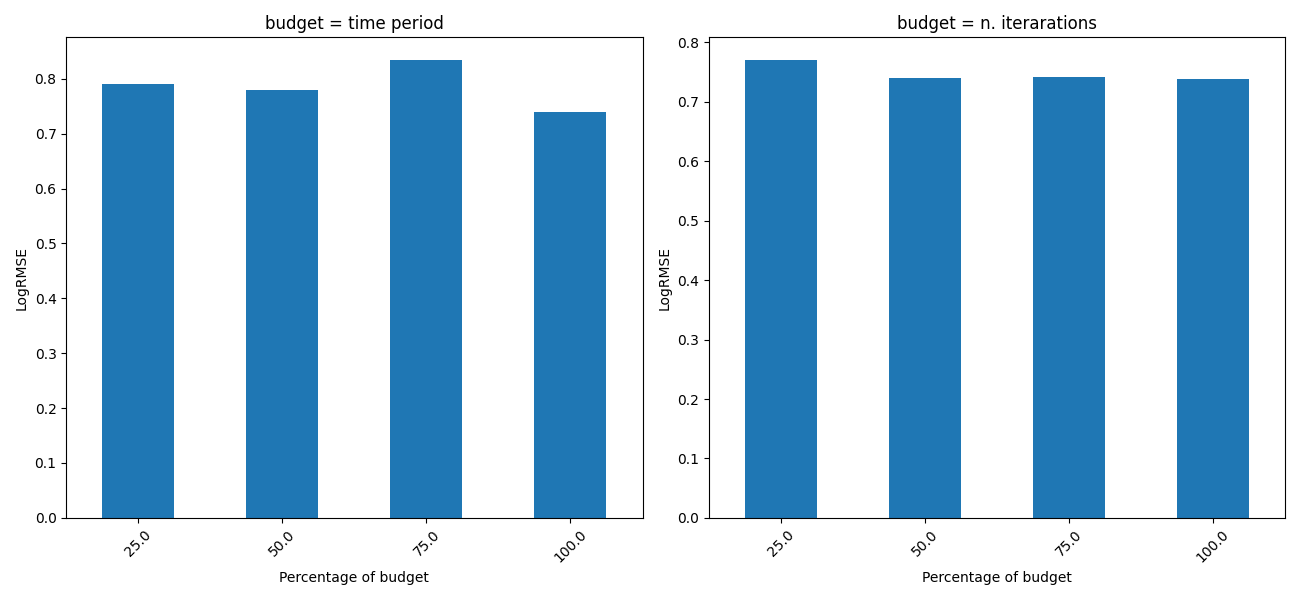
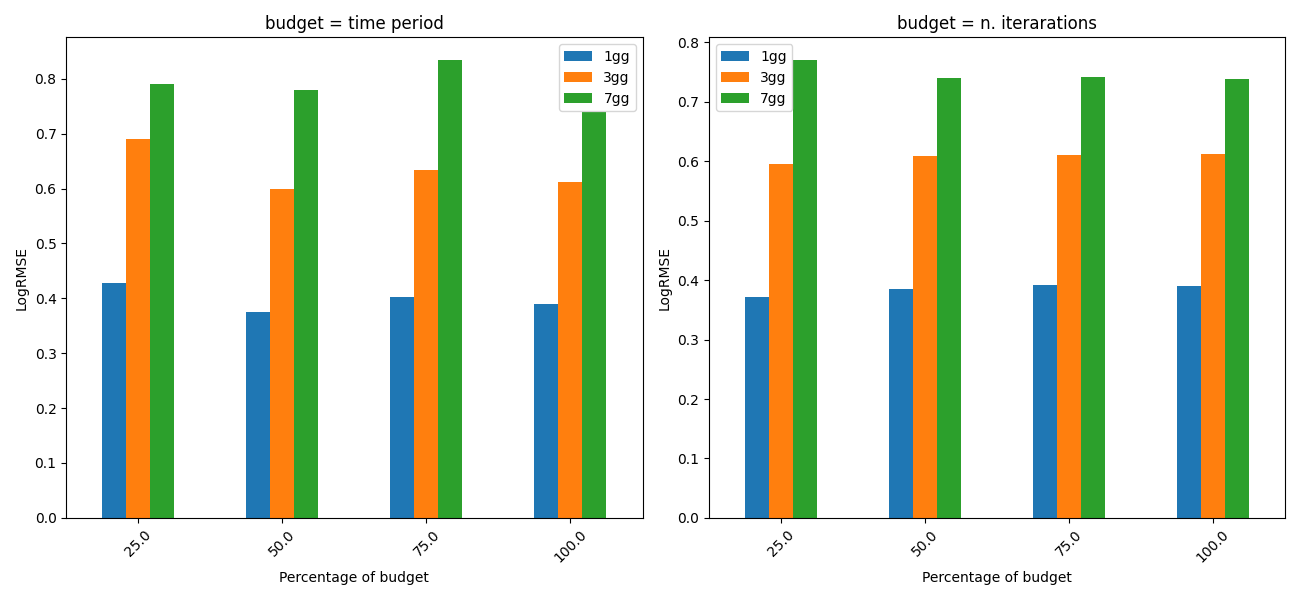
Export tuning process data in csv

diff --git a/src/plotter/main.py b/src/plotter/main.py
@@ -915,10 +915,13 @@ def summary_tuning_budget(
     output_folder=os.path.join("plots"),
     with_forbidden_sensors=True,
 ):
-    result = pd.DataFrame()
-    fig, ax = plt.subplots(1, 2)
     budget_labels = [25, 50, 75, 100]
+    fig, ax = plt.subplots(1, 2)
+    is_forbidden_sensors_string = (
+        "_with_forbidden_sensors" if with_forbidden_sensors else ""
+    )
     for axidx, budget_type in enumerate(["t", "b"]):
+        result = pd.DataFrame()
         budget_thresholds = (
             [25, 50, 75, 100] if budget_type == "t" else [125, 250, 375, 500]
         )
@@ -969,40 +972,63 @@ def summary_tuning_budget(
                     result = result.append(
                         {
                             "budget": int(budget_labels[idx]),
-                            f"{data_type}_{budget_type}": 
-                                mean_squared_error(
-                                    df[[c for c in df.columns if c.endswith("_obs")]],
-                                    df[
-                                        [
-                                            c
-                                            for c in df.columns
-                                            if c.endswith(f"_{data_type}")
-                                        ]
-                                    ],
-                                    squared=False,
-                                )
-                            ,
+                            f"{data_type}": mean_squared_error(
+                                df[[c for c in df.columns if c.endswith("_obs")]],
+                                df[
+                                    [
+                                        c
+                                        for c in df.columns
+                                        if c.endswith(f"_{data_type}")
+                                    ]
+                                ],
+                                squared=False,
+                            ),
+                            f"std_{data_type}": np.std(
+                                [
+                                    mean_squared_error(
+                                        df[
+                                            [
+                                                c
+                                                for c in df.columns
+                                                if c.endswith("_obs")
+                                            ]
+                                        ].iloc[i : (i + 1)],
+                                        df[
+                                            [
+                                                c
+                                                for c in df.columns
+                                                if c.endswith(f"_{data_type}")
+                                            ]
+                                        ].iloc[i : (i + 1)],
+                                        squared=False,
+                                    )
+                                    for i in range(df.shape[0])
+                                ],
+                                axis=0,
+                            ),
                         },
                         ignore_index=True,
                     )
 
-    result = result.set_index("budget")
-    result = result.groupby(level=0).sum(min_count=1)
-    print(result)
-    for axidx, budget_type in enumerate(["t", "b"]):
-        for data_type in support_dict.keys():
-            if data_type != "obs":
-                result[f"{data_type}_{budget_type}"].plot.bar(ax=ax[axidx])
+        result = result.set_index("budget")
+        result = result.groupby(level=0).sum(min_count=1)
+        result[[c for c in result.columns if not c.startswith(f"std")]].plot.bar(
+            ax=ax[axidx]
+        )
         ax[axidx].set_xlabel("Percentage of budget")
         ax[axidx].set_ylabel("LogRMSE")
         budget_string = "n. iterarations" if budget_type == "b" else "time period"
         ax[axidx].set_title(f"budget = {budget_string}")
         ax[axidx].tick_params(axis="x", rotation=45)
+        result.round(2).to_csv(
+            os.path.join(
+                output_folder,
+                f"summary_tuning_erros{is_forbidden_sensors_string}_{budget_type}.csv",
+            )
+        )
+        print(result.round(2))
     fig.set_size_inches(13, 6)
     plt.tight_layout()
-    is_forbidden_sensors_string = (
-        "_with_forbidden_sensors" if with_forbidden_sensors else ""
-    )
     fig.savefig(
         os.path.join(
             output_folder, f"summary_tuning_erros{is_forbidden_sensors_string}.pdf"
